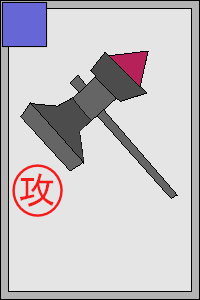
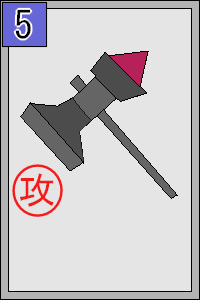
リソース面正式版に変えました

Changed region(s): [[0.06, 0.0, 0.18, 0.15]]

diff --git a/project/game/scene/GamePlayScene.cpp b/project/game/scene/GamePlayScene.cpp
@@ -148,7 +148,7 @@ void GamePlayScene::Initialize() {
 	ModelManager::GetInstance()->LoadModel("bossSummon", "resources/card", "BossSummonCard.obj");
 	ModelManager::GetInstance()->LoadModel("ruinBeam", "resources/card", "BossBeamCard.obj");
 	ModelManager::GetInstance()->LoadModel("bossCharge", "resources/card", "BossRushCard.obj");
-	ModelManager::GetInstance()->LoadModel("bossKick", "resources/card", "kickCard.obj");
+	ModelManager::GetInstance()->LoadModel("bossKick", "resources/card", "BossKickCard.obj");
 	ModelManager::GetInstance()->LoadModel("bossSpear", "resources/card", "BossSpearCard.obj");
 
 
@@ -350,8 +350,8 @@ void GamePlayScene::Initialize() {
 	}
 	avoidanceControllerUiSprite_ = Sprite::Create("resources/UI/avoidanceUIC.png", { 0.0f, 0.0f });
 	if (avoidanceControllerUiSprite_) {
-		avoidanceControllerUiSprite_->SetTextureRect(1600.0f, 1150.0f, 200.0f, 73.0f);
-		avoidanceControllerUiSprite_->SetSize({ 136.0f, 73.0f });
+		avoidanceControllerUiSprite_->SetTextureRect(1600.0f, 1140.0f, 200.0f, 78.0f);
+		avoidanceControllerUiSprite_->SetSize({ 150.0f, 59.0f });
 		avoidanceControllerUiSprite_->SetColor({ 1.0f, 1.0f, 1.0f, 1.0f });
 	}
 	cardSelectUiSprite_ = Sprite::Create("resources/UI/avoidance2UI.png", { 0.0f, 0.0f });
@@ -362,7 +362,7 @@ void GamePlayScene::Initialize() {
 	}
 	cardSelectControllerUiSprite_ = Sprite::Create("resources/UI/avoidance2UIC.png", { 0.0f, 0.0f });
 	if (cardSelectControllerUiSprite_) {
-		cardSelectControllerUiSprite_->SetTextureRect(1600.0f, 1146.0f, 200.0f, 78.0f);
+		cardSelectControllerUiSprite_->SetTextureRect(1600.0f, 1140.0f, 200.0f, 78.0f);
 		cardSelectControllerUiSprite_->SetSize({ 150.0f, 59.0f });
 		cardSelectControllerUiSprite_->SetColor({ 1.0f, 1.0f, 1.0f, 1.0f });
 	}
@@ -550,7 +550,7 @@ void GamePlayScene::UpdateMoveUiLayout() {
 	const float screenW = static_cast<float>(WindowProc::GetInstance()->GetClientWidth());
 	const float screenH = static_cast<float>(WindowProc::GetInstance()->GetClientHeight());
 	const Vector2 moveIconSize = { 150.0f, 104.0f };
-	const Vector2 avoidanceIconSize = { 136.0f, 73.0f };
+	const Vector2 avoidanceIconSize = { 150.0f, 59.0f };
 	const Vector2 cardSelectIconSize = { 150.0f, 59.0f };
 	const Vector2 slideMoveIconSize = { 150.0f, 59.0f };
 	const float iconColumnWidth = 150.0f;
